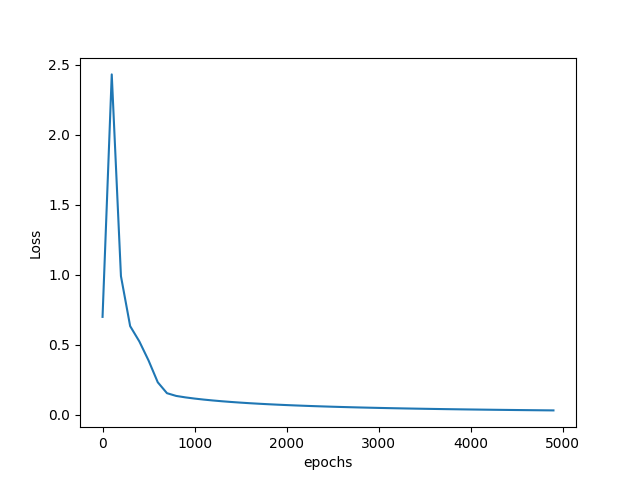
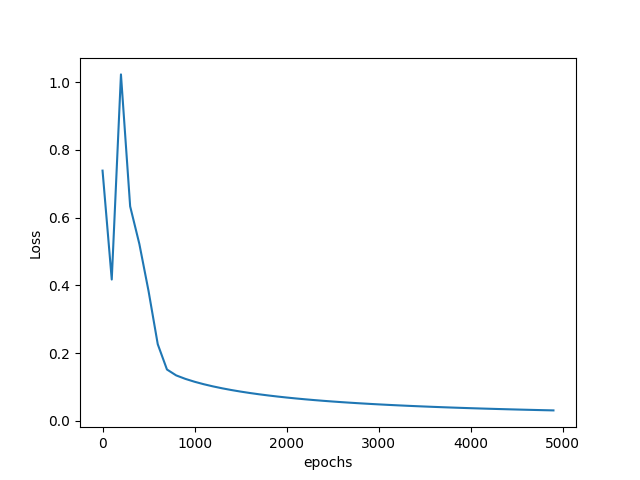
Vectorization in Predict method

diff --git a/main.py b/main.py
@@ -109,18 +109,12 @@ class NeuralNetwork:
 
     def predict(self, x, threshold):
 
-        m = x.shape[1]
-        y_predicted = np.zeros((1, m))
-
         probablity = sigmoid(np.dot(self.w.T, x))
 
-        for i in range(probablity.shape[1]):
-            if probablity[0, i] >= 0.5:
-                y_predicted[:, i] = 1
-            else:
-                y_predicted[:, i] = 0
+        probablity[probablity <= threshold] = 0
+        probablity[probablity > threshold] = 1
 
-        y_predicted = y_predicted.astype(int)
+        y_predicted = probablity.astype(int)
 
         return y_predicted
 
